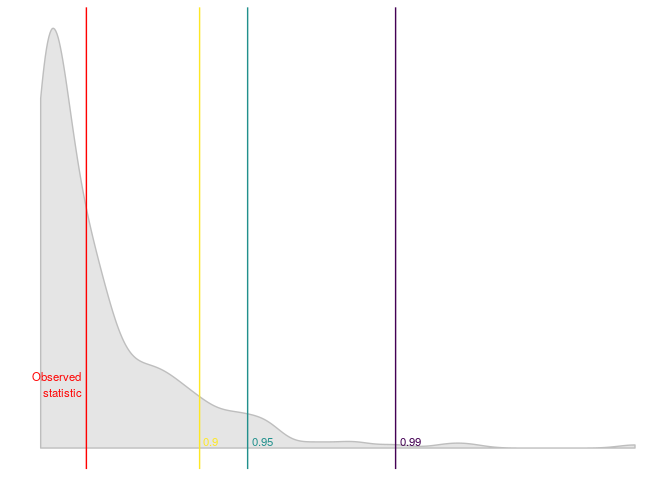
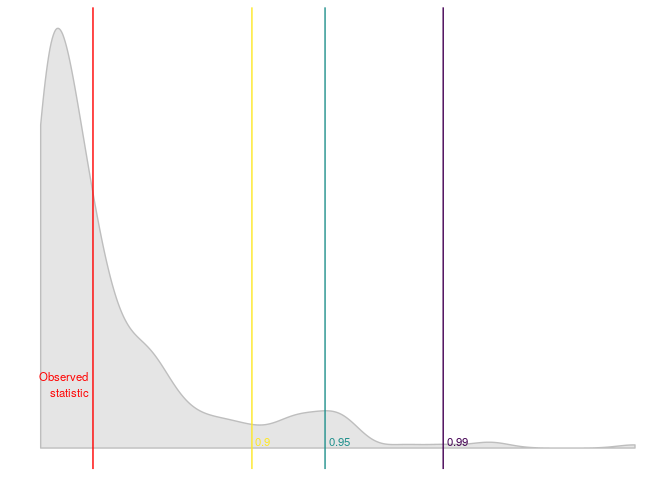
Adding parallel processing

Changed region(s): [[0.25, 0.0312, 0.7812, 0.9688], [0.0312, 0.0, 0.25, 0.9688]]

diff --git a/README.md b/README.md
@@ -54,10 +54,10 @@ dplyr::glimpse(dl_test$test)
 #> $ name_distribution <chr> "rnorm"
 #> $ name_statistic    <chr> "cvm_value"
 #> $ statistic         <dbl> 7.562182e-29
-#> $ p_value           <dbl> 0.4166667
-#> $ quantile_90       <dbl> 2.58979e-28
-#> $ quantile_95       <dbl> 3.36778e-28
-#> $ quantile_99       <dbl> 5.764217e-28
+#> $ p_value           <dbl> 0.39
+#> $ quantile_90       <dbl> 3.009221e-28
+#> $ quantile_95       <dbl> 4.045725e-28
+#> $ quantile_99       <dbl> 5.720393e-28
 ```
 
 Also `linearspectestr` can plot the results
@@ -67,6 +67,31 @@ plot_dl_test(dl_test)
 ```
 
 <img src="man/figures/README-plot-1.png" width="70%" />
+
+RUN IN PARALLEL\!
+
+``` r
+library(linearspectestr)
+x_p <- 1:1e5
+y_p <- 1:1e5
+
+lm_model_p <- lm(y_p~x_p)
+
+dl_test_p <- dominguez_lobato_test(lm_model_p, n_cores=7)
+```
+
+``` r
+dplyr::glimpse(dl_test_p$test)
+#> Observations: 1
+#> Variables: 7
+#> $ name_distribution <chr> "rnorm"
+#> $ name_statistic    <chr> "cvm_value"
+#> $ statistic         <dbl> 6.324343e-21
+#> $ p_value           <dbl> 0.3533333
+#> $ quantile_90       <dbl> 1.888409e-20
+#> $ quantile_95       <dbl> 2.714834e-20
+#> $ quantile_99       <dbl> 5.507548e-20
+```
 
 ## References
 
